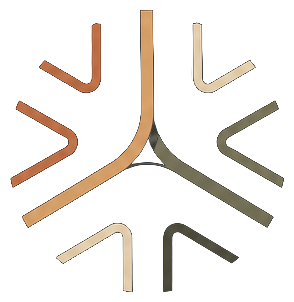
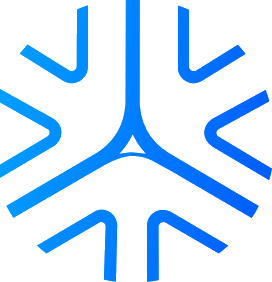
feat(brand): adopt the 2026 blue identity across the web (#26)
The brand sheet (Guía Rápida, DOBLEEMEDIA) supplies Sky #00A4FF, Neon
#00E7FF, Royal #000675 and White. Only Royal is readable on a light
surface — Sky measures 2.71:1 against white and Neon 1.51:1, both under
the 4.5:1 floor — so Royal carries every control and link, and the two
bright blues appear only on the dark strip, where they reach 6.9:1 and
12.4:1.

This also retires a defect the copper palette had been carrying: white
text on #B8734E measured 3.75:1, under the floor, on roughly 200 primary
buttons. Royal puts it at 16.4:1. Nothing in the gates looks at colour,
so it had gone unnoticed since the palette shipped.

`--gold`, `--olive` and `--cream` keep their names and change their
values. Between them they have three call sites; renaming would mean
touching components for no visual gain.

Logo: the supplied artwork is a single lockup, so Logo renders one image
instead of composing an isotype tile with a separate wordmark, which
would have drawn the symbol twice. Sized 32/36px because the wordmark's
cap height is only a third of the lockup — smaller and the name stops
being readable on a phone. The PNGs are a raster trace of the PDF with
real transparency; replace them with vectors when the studio supplies
them.

Hero: top padding drops from pt-20/md:pt-28 to pt-10/md:pt-14 so the
search sits higher in the fold, and the right half now carries a
photograph bleeding off the edge instead of only a faint watermark. The
[…]

diff --git a/src/app/globals.css b/src/app/globals.css
@@ -1,13 +1,20 @@
 @import "tailwindcss";
 
 /* ------------------------------------------------------------------ *
- * Cibaura design system — CIBAURA BRAND (warm premium minimalist).
+ * Cibaura design system — CIBAURA BRAND 2026 (Guía Rápida, DOBLEEMEDIA).
  *
- * Palette straight from the brand sheet: copper (#B8734E) as the one
- * confident accent, gold (#D2B48C) and olive (#6B705C) as supporting
- * brand tones, cream (#E8DCC2) for warm surfaces / text-on-dark, and
- * navy (#0D1117) for the brand's dark moments (footer, hero panels,
- * the logo tile). Light-first & airy — the car is the hero.
+ * The sheet gives four colours: Sky #00A4FF, Neon #00E7FF, Royal #000675
+ * and White. Only ROYAL survives on a light surface — Sky measures 2.71:1
+ * against white and Neon 1.51:1, both under the 4.5:1 floor. So Royal
+ * carries every control and link, and the two bright blues live only on
+ * the dark strip (footer, hero panels), where they reach 6.9:1 and 12.4:1.
+ * Light-first & airy — the car is the hero.
+ *
+ * Replaces the 2025 copper/cream palette. Three token NAMES survive that
+ * rename — `--gold`, `--olive`, `--cream` — because between them they have
+ * three call sites, and renaming would mean touching components for no
+ * visual gain. Their values are brand blues now; read the value, not the
+ * name.
  *
  * All colors are declared as CSS variables and mapped into the Tailwind
  * v4 theme via `@theme inline`, so `bg-background`, `text-foreground`,
@@ -16,58 +23,57 @@
  * ------------------------------------------------------------------ */
 :root {
   /* Surfaces */
-  --background: #faf7f1; /* warm cream paper (derived from #E8DCC2) */
-  --surface: #ffffff; /* cards sit slightly brighter than the page */
-  --foreground: #14181f; /* navy ink (brand #0D1117, lifted for text) */
+  --background: #F4F7FC; /* page canvas — a hair of blue, not pure white */
+  --surface: #FFFFFF; /* cards sit brighter than the page, so they lift */
+  --foreground: #0A0E2E; /* ink, derived from Royal (18.8:1 on the canvas) */
 
-  /* Warm stone neutrals (chosen, not pure gray) */
-  --muted: #f2efe9; /* subtle fills, chips, hovers */
-  --muted-foreground: #6e6a62; /* secondary text (warm stone) */
-  --border: #e7e2d9; /* hairline borders, warm */
-  --border-strong: #d9d3c8; /* emphasized dividers */
+  /* Cool neutrals, biased toward the accent rather than inherited grey */
+  --muted: #EDF3FB; /* subtle fills, chips, hovers */
+  --muted-foreground: #59627D; /* secondary text (6.1:1 on a card) */
+  --border: #DCE4F0; /* hairline borders */
+  --border-strong: #C3CFE2; /* hover affordance, not a component boundary */
 
-  /* Accent — the one confident brand color (copper) */
-  --primary: #b8734e;
-  --primary-hover: #a2603a;
-  --primary-foreground: #ffffff;
-  --accent-soft: #f5e9dd; /* tinted copper background */
-  --accent-soft-foreground: #8a4e2e;
+  /* Accent — Royal, the only brand blue readable on light */
+  --primary: #000675; /* white on it: 16.4:1 */
+  --primary-hover: #0E16A8; /* lighter, not darker: the button is dark */
+  --primary-foreground: #FFFFFF;
+  --accent-soft: #E6F2FF; /* tinted background for chips and soft buttons */
+  --accent-soft-foreground: #00456F; /* 8.9:1 on that tint */
 
-  /* Supporting brand tones */
-  --gold: #d2b48c; /* secondary — highlights, subtle fills */
-  --gold-soft: #f4ead8;
-  --olive: #6b705c; /* tertiary — quiet chips, muted marks */
-  --olive-soft: #ecede7;
+  /* Supporting tones — legacy NAMES, brand-blue values (see header note) */
+  --gold: #00A4FF; /* Sky — highlights and subtle fills */
+  --gold-soft: #E3F2FF;
+  --olive: #00517F; /* darkened Sky, usable as text on light */
+  --olive-soft: #E9F0F8;
 
-  /* Brand dark surface — footer, hero panels, the logo tile */
-  --navy: #0d1117;
-  --navy-foreground: #e8dcc2; /* cream text on navy */
-  --cream: #e8dcc2;
+  /* Brand dark surface — footer and hero panels. This is where Neon lives. */
+  --navy: #04044A;
+  --navy-foreground: #FFFFFF; /* 18.7:1 */
+  --cream: #EAF3FE; /* pale tint for text-on-dark that is not pure white */
 
   /* Focus ring follows the accent */
-  --ring: #b8734e;
+  --ring: #000675;
 
   /* Feedback */
   --destructive: #dc2626;
-  --success: #15803d;
+  --success: #147238;
   --success-soft: #e7f4ec;
-  --warning: #b45309;
+  --warning: #A94D08;
   --warning-soft: #fbf1e3;
 
-  /* Elevation — soft, low, warm-tinted shadows */
-  --shadow-sm: 0 1px 2px rgba(13, 17, 23, 0.04), 0 1px 3px rgba(13, 17, 23, 0.06);
-  --shadow-md: 0 4px 12px rgba(13, 17, 23, 0.06), 0 2px 4px rgba(13, 17, 23, 0.05);
-  --shadow-lg: 0 12px 32px rgba(13, 17, 23, 0.10), 0 4px 8px rgba(13, 17, 23, 0.06);
+  /* Elevation — soft, low, tinted with the ink rather than pure black */
+  --shadow-sm: 0 1px 2px rgba(10, 14, 46, 0.04), 0 1px 3px rgba(10, 14, 46, 0.06);
+  --shadow-md: 0 4px 12px rgba(10, 14, 46, 0.06), 0 2px 4px rgba(10, 14, 46, 0.05);
+  --shadow-lg: 0 12px 32px rgba(10, 14, 46, 0.10), 0 4px 8px rgba(10, 14, 46, 0.06);
 
   /* Radius scale — generous, modern */
   --radius: 0.875rem; /* 14px — default card/control roundness */
   --radius-sm: 0.5rem;
   --radius-lg: 1.25rem;
 
-  /* Display font: an elegant system serif so headings read as editorial.
-     System stack = zero network fetch (keeps the build gate green). */
-  --font-display: ui-serif, Georgia, "Times New Roman", "Playfair Display",
-    serif;
+  /* One family everywhere (see .font-display below). System stack = zero
+     network fetch, which keeps the build gate green. */
+  --font-display: var(--font-geist-sans), system-ui, -apple-system, "Segoe UI", Roboto, sans-serif;
 }
 
 @theme inline {
@@ -124,8 +130,10 @@ body {
   letter-spacing: -0.006em;
 }
 
-/* Editorial display headings — the type-pairing distinction. Applied via
-   the `.font-display` utility on hero/section headings. */
+/* Display headings. The 2025 design paired an editorial serif against the
+   body sans; the 2026 brief asks for ONE sans across navigation, titles,
+   cards and forms, and the wordmark has no serifs either. The utility stays
+   so call sites keep working — it now only carries the tighter tracking. */
 .font-display {
   font-family: var(--font-display);
   letter-spacing: -0.02em;
@@ -133,7 +141,7 @@ body {
   font-weight: 500;
 }
 
-/* A soft, warm selection tint that matches the accent. */
+/* Selection tint drawn from the accent. */
 ::selection {
   background: var(--accent-soft);
   color: var(--accent-soft-foreground);

diff --git a/src/app/page.tsx b/src/app/page.tsx
@@ -20,9 +20,18 @@ export default async function HomePage({
   return (
     <div>
       <OrganizationJsonLd />
-      {/* Hero — big, airy, brand-toned. No third-party stock imagery: the
-          backdrop is a warm layered gradient built from the brand tokens
-          (cream → copper glow → olive haze), so nothing external loads. */}
+      {/* Hero — two columns on desktop: the message and the search on the
+          left, a vehicle on the right. The big isotype used to be the ONLY
+          thing on the right, which left that half reading as empty space; it
+          is now a secondary detail layered over the photo.
+
+          The photo is a CSS background with the gradient as its fallback
+          layer, so the section still looks finished while no real photograph
+          exists. Drop a file at /hero/car.jpg and it appears — no code change.
+
+          Top padding came down from pt-20/md:pt-28 so the search sits higher
+          in the fold and the page invites scrolling instead of filling the
+          whole screen with the headline. */}
       <section className="relative overflow-hidden">
         <div className="absolute inset-0 -z-10" aria-hidden>
           <div className="absolute inset-0 bg-[radial-gradient(ellipse_at_top_right,var(--accent-soft)_0%,transparent_55%),radial-gradient(ellipse_at_bottom_left,var(--olive-soft)_0%,transparent_50%),linear-gradient(180deg,var(--gold-soft)_0%,var(--background)_70%)]" />
@@ -30,33 +39,50 @@ export default async function HomePage({
           <div className="absolute inset-0 bg-gradient-to-t from-background to-transparent" />
         </div>
 
-        {/* Faint brand isotype watermark — pure decoration. */}
-        {/* eslint-disable-next-line @next/next/no-img-element */}
-        <img
-          src="/brand/isotype.png"
-          alt=""
-          aria-hidden
-          className="pointer-events-none absolute -right-8 -top-8 -z-10 h-56 w-56 select-none opacity-[0.05] md:h-80 md:w-80"
-        />
+        {/* The photograph BLEEDS off the right edge instead of sitting in a
+            floating card. A rounded panel beside the text read as something
+            pasted on rather than as part of the page — and while no real photo
+            exists it read as an empty box with no explanation at all.
 
-        <div className="relative z-10 mx-auto max-w-6xl px-4 pb-14 pt-20 md:pb-24 md:pt-28">
+            It also sits behind the message column rather than beside it, so
+            the search below keeps the FULL content width. Splitting the row
+            cost the search ~45% of its width and truncated every field
+            ("Choose a co…", "Pic…", "Re…"), which broke the one element that
+            has to work on this page. */}
+        <div
+          aria-hidden
+          className="pointer-events-none absolute inset-y-0 right-0 hidden w-[46%] lg:block"
+        >
+          <div className="absolute inset-0 bg-[image:url('/hero/car.jpg'),linear-gradient(130deg,var(--muted)_0%,var(--accent-soft)_60%,var(--surface)_100%)] bg-cover bg-center" />
+          {/* Fades the image into the page on its left and bottom edges, so
+              there is no hard seam where the photo stops. */}
+          <div className="absolute inset-0 bg-gradient-to-r from-background via-background/55 to-transparent" />
+          <div className="absolute inset-0 bg-gradient-to-t from-background via-transparent to-transparent" />
+          {/* eslint-disable-next-line @next/next/no-img-element */}
+          <img
+            src="/brand/isotype.png"
+            alt=""
+            className="absolute -right-10 top-8 h-44 w-44 select-none opacity-[0.10]"
+          />
+        </div>
+
+        <div className="relative z-10 mx-auto max-w-6xl px-4 pb-12 pt-10 md:pb-16 md:pt-14">
           <div className="max-w-2xl">
             <span className="inline-flex items-center gap-1.5 rounded-full border border-border bg-surface/70 px-3 py-1 text-xs font-medium text-muted-foreground backdrop-blur">
               <ShieldCheck className="h-3.5 w-3.5 text-primary" />
               Verified local rent-a-car agencies
             </span>
-            <h1 className="font-display mt-5 text-4xl leading-[1.05] text-foreground md:text-6xl">
-              Find the perfect car,
-              <br />
-              where you want to go.
+            <h1 className="mt-4 text-4xl font-bold leading-[1.06] tracking-[-0.03em] text-foreground md:text-5xl">
+              Find the right car for your next trip.
             </h1>
-            <p className="mt-5 max-w-xl text-base text-muted-foreground md:text-lg">
-              Choose your destination country, city and dates. Compare cars from
-              verified agencies, and book in minutes — no counter, no surprises.
+            <p className="mt-4 max-w-xl text-base text-muted-foreground md:text-lg">
+              Compare cars from local agencies. Choose your destination and
+              dates to get started.
             </p>
           </div>
 
-          <div className="mt-8">
+          {/* Full width again — the fields need the room. */}
+          <div className="mt-7">
             <HeroSearch layout={layout} />
           </div>
         </div>

diff --git a/src/shared/components/logo.tsx b/src/shared/components/logo.tsx
@@ -1,20 +1,33 @@
 import Image from "next/image";
 
 /**
- * Cibaura brand mark. Assets live in /public/brand (extracted from the brand
- * sheet). Three variants:
+ * Cibaura brand mark — the 2026 identity (Guía Rápida de Marca, DOBLEEMEDIA).
  *
- *  - "lockup" (default): the navy isotype tile + the wordmark. Use `onDark`
- *    to flip the wordmark cream (dark surfaces) vs navy (light surfaces).
- *    The tile carries its own navy background, so it reads on ANY surface.
- *  - "mark": just the isotype tile (compact / square slots).
- *  - "full": the full colour lockup (isotype + wordmark + tagline). Built for
- *    DARK surfaces only (its strokes are the brand's cream/copper on navy).
+ * The supplied artwork is a single LOCKUP: the six-armed isotype and the
+ * wordmark are one piece, drawn together with their own spacing. The previous
+ * assets were two files composed at render time; keeping that here would draw
+ * the isotype twice. So "lockup" is one image, not a composition.
  *
- * Assets are `unoptimized` (small, pre-sized PNGs with baked transparency) so
- * they render identically in `next dev` and a static export.
+ *  - "lockup" (default): isotype + wordmark. `onDark` picks the white artwork
+ *    for dark surfaces; otherwise the blue-to-navy one for light surfaces.
+ *  - "mark": the isotype alone, for square slots. It is blue on transparency,
+ *    NOT a tile with its own background, so it needs a light surface — pass
+ *    `onDark` nothing and place it accordingly.
+ *
+ * Sizing is deliberate rather than inherited: inside the lockup the wordmark's
+ * cap height is only ~a third of the image, so a 24px lockup leaves letters
+ * near 8px and the name stops being readable. 36px on desktop and 32px on
+ * mobile keep it legible, which is what the brief asks for on phones.
+ *
+ * These PNGs carry real transparency. They are a raster trace of the PDF —
+ * replace them with the vector files as soon as the studio supplies them, or
+ * they will soften on high-density screens.
  */
 type LogoVariant = "lockup" | "mark" | "full";
+
+const LOCKUP_W = 1230;
+const LOCKUP_H = 284;
+const MARK = 272;
 
 export function Logo({
   variant = "lockup",
@@ -30,53 +43,26 @@ export function Logo({
   if (variant === "mark") {
     return (
       <Image
-        src="/brand/app-icon.png"
+        src="/brand/isotype.png"
         alt="Cibaura"
-        width={512}
-        height={512}
+        width={MARK}
+        height={MARK}
         priority={priority}
         unoptimized
-        className={className ?? "h-8 w-8 rounded-[var(--radius-sm)]"}
+        className={className ?? "h-8 w-8"}
       />
     );
   }
 
-  if (variant === "full") {
-    return (
-      <Image
-        src="/brand/logo-full.png"
-        alt="Cibaura — mobility, reservations, rental marketplace"
-        width={986}
-        height={543}
-        priority={priority}
-        unoptimized
-        className={className ?? "h-auto w-56"}
-      />
-    );
-  }
-
-  // lockup
   return (
-    <span className={`inline-flex items-center gap-2.5 ${className ?? ""}`}>
-      <Image
-        src="/brand/app-icon.png"
-        alt=""
-        aria-hidden
-        width={512}
-        height={512}
-        priority={priority}
-        unoptimized
-        className="h-8 w-8 shrink-0 rounded-[var(--radius-sm)]"
-      />
-      <Image
-        src={onDark ? "/brand/wordmark.png" : "/brand/wordmark-dark.png"}
-        alt="Cibaura"
-        width={982}
-        height={128}
-        priority={priority}
-        unoptimized
-        className="h-[18px] w-auto"
-      />
-    </span>
+    <Image
+      src={onDark ? "/brand/wordmark.png" : "/brand/wordmark-dark.png"}
+      alt="Cibaura"
+      width={LOCKUP_W}
+      height={LOCKUP_H}
+      priority={priority}
+      unoptimized
+      className={className ?? "h-8 w-auto md:h-9"}
+    />
   );
 }

diff --git a/src/features/cars/components/hero-search.tsx b/src/features/cars/components/hero-search.tsx
@@ -44,15 +44,17 @@ export function HeroSearch({ layout = "B" }: { layout?: "A" | "B" } = {}) {
   const noDates = !from && !to;
   const canSearch = !!selectedCountry && (noDates || hasDates);
 
+  // The ready state says what the button DOES, in the same words both times.
+  // It used to split into "Browse cars" and "Check availability" depending on
+  // whether dates were set, which made the primary action of the page read as
+  // two different features.
   const actionLabel = !selectedCountry
     ? "Choose a country"
     : !noDates && !hasDates
       ? !from
         ? "Choose pickup date"
         : "Choose return date"
-      : noDates
-        ? "Browse cars"
-        : "Check availability";
+      : "Search cars";
   function closeDates() {
     setEditing(null);
     document.getElementById(`hero-${editing}`)?.focus();
@@ -148,6 +150,12 @@ export function HeroSearch({ layout = "B" }: { layout?: "A" | "B" } = {}) {
           disabled={!canSearch}
           className={cn(
             "h-10 w-full",
+            // The shared `disabled:opacity-50` fades the royal blue into a
+            // washed lavender that reads as a broken brand colour rather than
+            // as "not yet". A neutral grey says unavailable without dragging
+            // the brand through it. Overridden here, not globally: other
+            // disabled buttons in the app are not brand-coloured.
+            "disabled:opacity-100 disabled:bg-muted disabled:text-muted-foreground disabled:border disabled:border-border",
             layout === "B"
               ? "col-span-full"
               : "sm:col-span-2 lg:col-span-1 lg:px-3",
